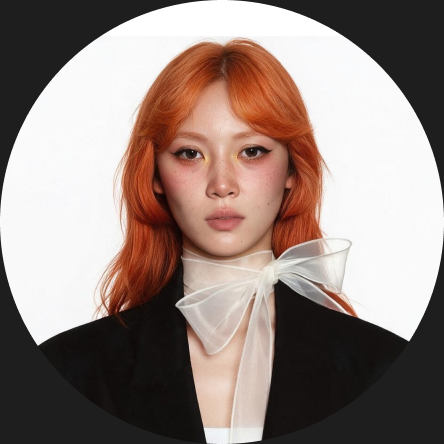
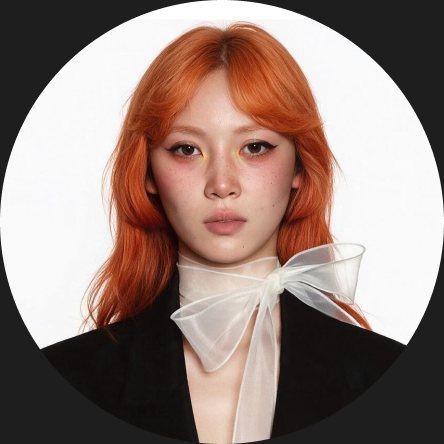
Ава крупнее

Changed region(s): [[0.0878, 0.0293, 0.9369, 1.0], [0.527, 0.4099, 0.5563, 0.4392], [0.4392, 0.4099, 0.4685, 0.4392]]

diff --git a/index.html b/index.html
@@ -1167,7 +1167,7 @@
   </header>
 
   <main>
-    <img class="avatar" src="assets/avatar.png?v=20260928" alt="Diana Shvedskaia">
+    <img class="avatar" src="assets/avatar.png?v=20260928b" alt="Diana Shvedskaia">
 
     <div class="content">
       <div class="headlines">
